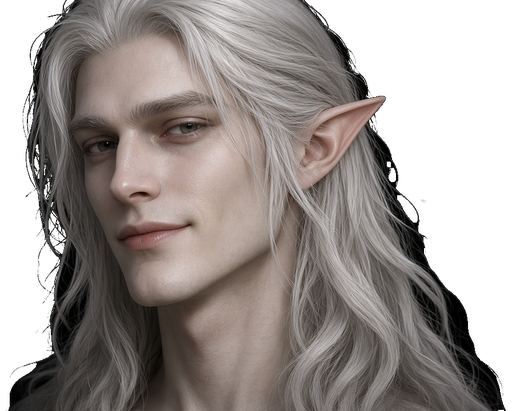
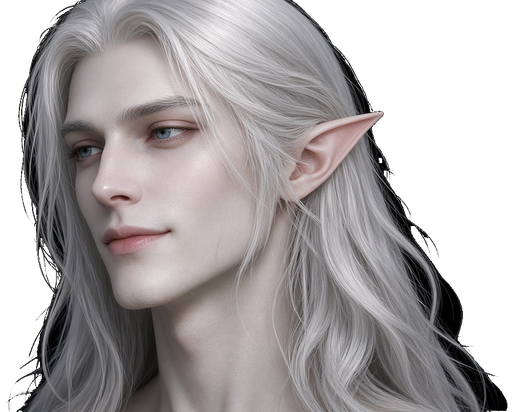
Add variant-b heads: elf M, orc F, hobbit M, lizard F, north F, south M, sheep F

diff --git a/NOTES.md b/NOTES.md
@@ -34,3 +34,4 @@
 - 2026-09-13ae: lizard F a forearm L/R (mirror; green scales via rembg alpha + original RGB); sheep M a upperarm L/R (mirror; cropped from bent arm shoulder→elbow); human south F a hand L/R (mirror); orc M a calf L/R (mirror; olive via rembg alpha + original RGB; MISGEN: source labeled forearm but bulge+ankle taper → saved as calf overwrite); lizard F a thigh L/R (mirror; green scales); sheep M a thigh L/R (mirror); human south M a thigh L/R (mirror). sheep M upperarm: source was elbow-bent full arm; PIL cone-crop from elbow tip (434,22) toward shoulder (325,153) kept shoulder→elbow+woven cuff, trimmed forearm (y_cut=229). rembg u2net alpha + original RGB composite. eje largo 512. RGBA.
 - 2026-09-13af: lizard M a thigh L/R (mirror; green scales via rembg alpha + original RGB); lizard F a foot-bare L/R (mirror; green scales); sheep M a foot-bare L/R (mirror); human south F a calf L/R (mirror); orc M a forearm L/R (mirror; olive via rembg alpha + original RGB; v2 elbow→wrist — NOT calf); sheep F a thigh L/R (mirror; woolly hip-hem→knee). rembg u2net alpha + original RGB composite. eje largo 512. RGBA.
 - 2026-09-13ag: hobbit F a forearm L/R (mirror); human north M a calf L/R (mirror); human north M a hand L/R (mirror; wrist+fingers, forearm stump cropped); human north F a upperarm L/R (mirror; floral tattoo kept as distinctive variant detail; shoulder→elbow crop if bent past elbow); human north F a forearm L/R (mirror; fist cropped off, keep elbow→wrist). north M hand: cropped forearm stump at wrist via principal-axis width min (cut_t=-247, width=212); kept wrist+fingers north F upperarm: bent past elbow; PIL cone-crop from elbow (834,358) toward shoulder (43,438) kept shoulder→elbow+sleeve+floral tattoo, trimmed forearm (x_cut=874, y_cut=795) north F forearm: cropped fist off at wrist via principal-axis width min (cut_t=455, width=154); kept elbow→wrist. rembg u2net alpha + original RGB composite. eje largo 512. RGBA.
+- 2026-09-13ah: variant-b heads: elf M (overwrite), orc F (green/olive via rembg alpha + original RGB), hobbit M, lizard F (green scales via rembg alpha + original RGB), human north F, human south M, sheep F (ANIMAL-LIKE: literal lamb/sheep head, not anthropomorphic sheepfolk face — saved as requested). Heads only, no L/R mirror. rembg u2net alpha + original RGB composite. eje largo 512. RGBA.
